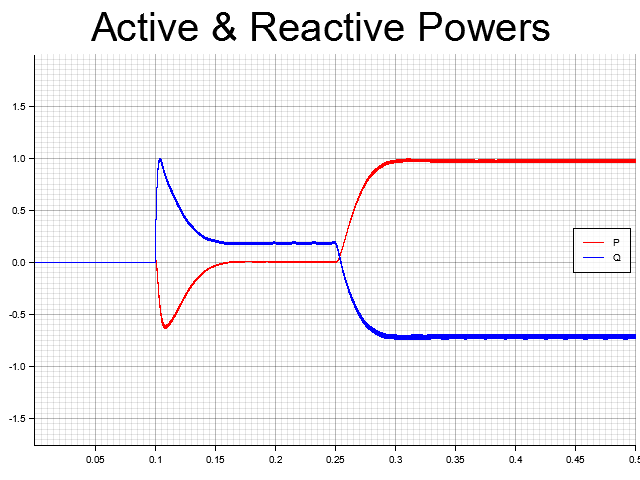
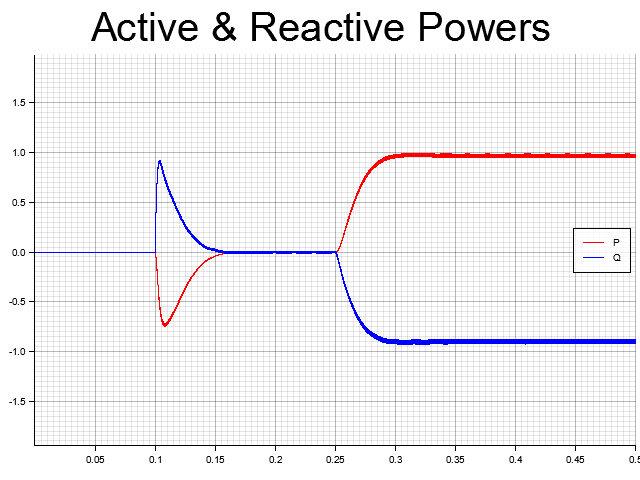
Tested droop rl sim and made small changes to sim file

Changed region(s): [[0.0, 0.3125, 1.0, 0.7812], [0.0312, 0.0938, 1.0, 0.2812], [0.0312, 0.7812, 1.0, 0.9375]]

diff --git a/src/bin/droop_rl_sim.rs b/src/bin/droop_rl_sim.rs
@@ -14,6 +14,7 @@ const POWER_OUT_FILE_NAME: &'static str = "images/droop_rl_sim_powers.png";
 const CURRENT_OUT_FILE_NAME: &'static str = "images/droop_rl_sim_currents.png";
 const DELTA_OUT_FILE_NAME: &'static str = "images/droop_rl_sim_deltas.png";
 fn main() -> Result<(), Box<dyn std::error::Error>> {
+    env::set_var("RUST_BACKTRACE", "1");  // Enable backtrace for identifying overflow errors //TODO: Remove this after testing
     /*
     DEFINE SYSTEM PARAMETERS & CONSTRUCT OBJECTS
     */
@@ -34,8 +35,7 @@ fn main() -> Result<(), Box<dyn std::error::Error>> {
     let z_base = 3. * v_nom * v_nom / s_rated;
 
     let mut inv = build_droop_controller(v_nom, w_nom, mp, mq, w_c);
-    inv.x[(1)] = 0.005;  // Initialize inverter angle to be off from the grid to test presync
-    inv.x[(0)] = 1.1;  // Initialize inverter voltage to be off from v_nom to test presync
+    inv.x[(0)] = 0.005;  // Initialize inverter angle to be off from the grid to test presync
     let mut gfm = build_gfm(&mut inv, gamma);  // Place the droop controller within a GFM interface object
 
     let mut line: RlBranch<f32> = build_rl_branch(w_nom, rf / z_base, lf / z_base);
@@ -84,9 +84,9 @@ fn main() -> Result<(), Box<dyn std::error::Error>> {
         ia_values[step as usize] = (t, line.x[(0)]);
         ib_values[step as usize] = (t, line.x[(1)]);
         delta = v_inv[1] - bus.x[(1)];
-        if delta > (1. / f_nom) {
+        if delta > (1. / f_nom - 2.0e-4) {
             delta = -(1. / f_nom) + delta;
-        } else if delta < -(1. / f_nom - 1.0e-4) {
+        } else if delta < -(1. / f_nom - 2.0e-4) {
             delta = (1. / f_nom) + delta;
         }
         delta_values[step as usize] = (t, delta);
